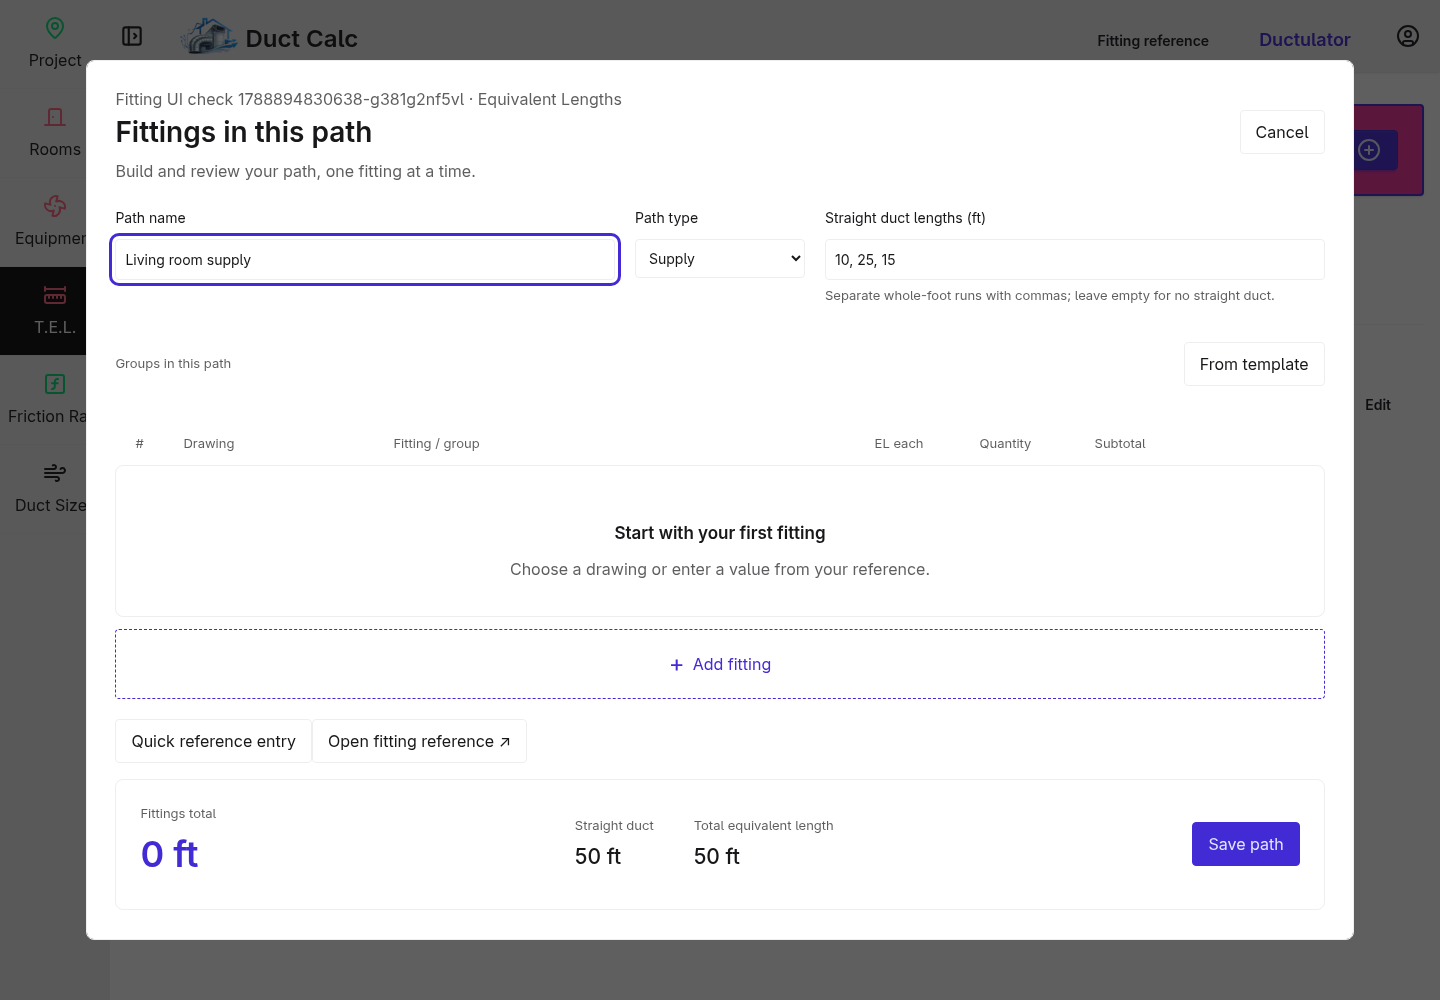
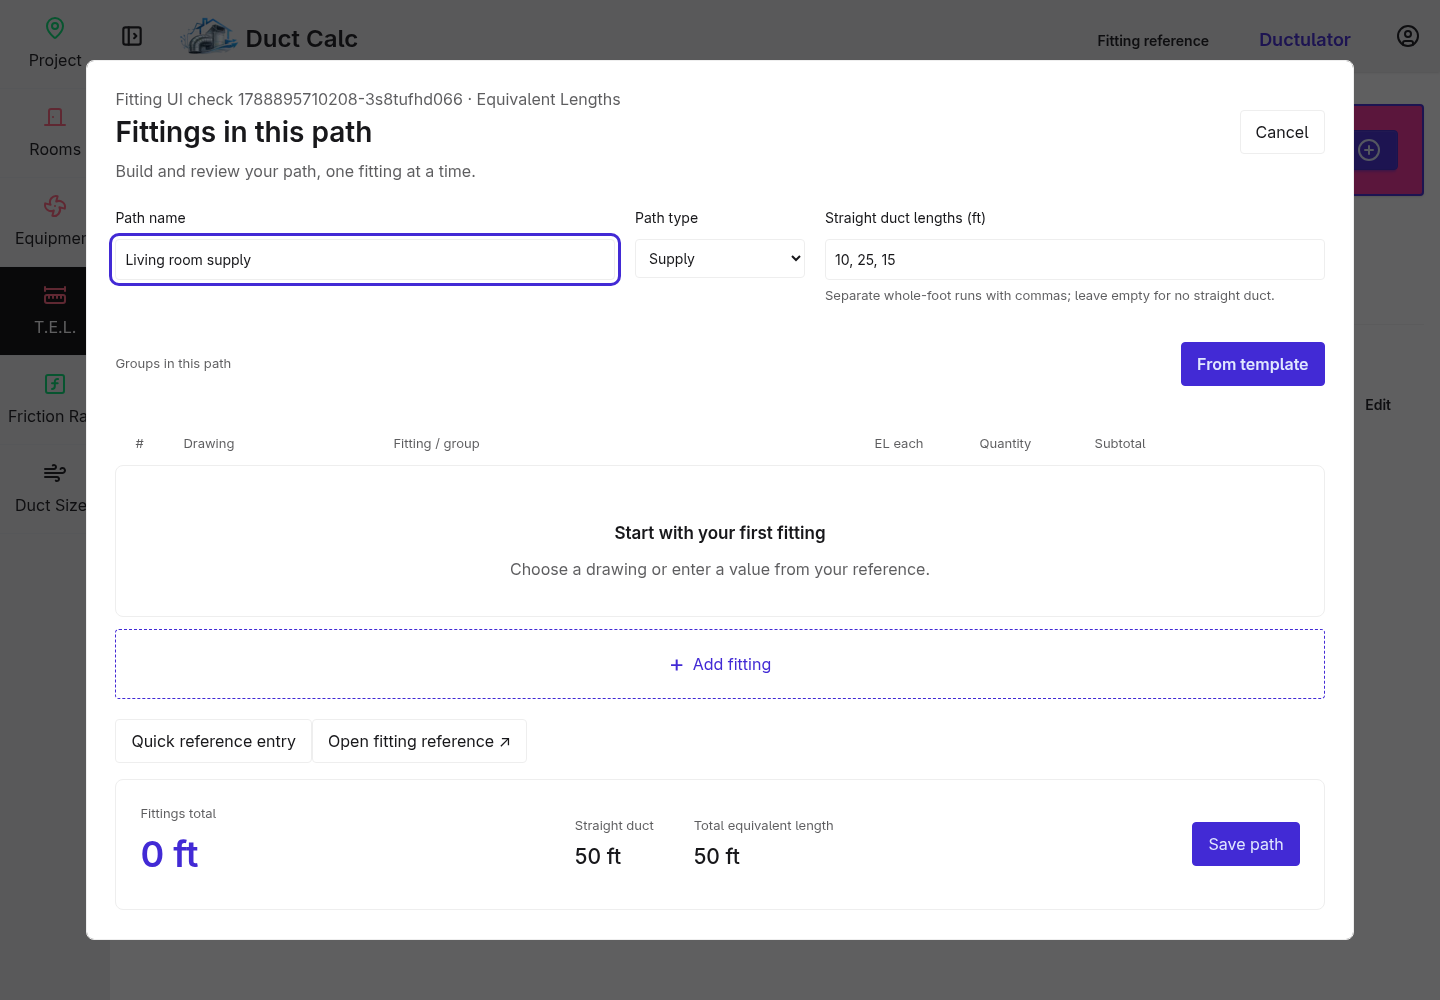
feat: run template workflows inside the path modal

Changed region(s): [[0.8125, 0.341, 0.9375, 0.403], [0.1875, 0.093, 0.4375, 0.124]]

diff --git a/Public/js/template-modal.js b/Public/js/template-modal.js
@@ -1,0 +1,95 @@
+/* Hosts the existing template views inside the project path dialog. */
+(() => {
+  window.FittingTemplateModal = {
+    create(dialog, { endpoint, hasDraft, finish }) {
+      const original = [...dialog.children];
+      const host = document.createElement('section');
+      host.hidden = true;
+      host.innerHTML = `<div class="template-modal-toolbar"><button type="button" class="btn" data-template-back>Back to path</button><button type="button" class="btn" data-template-cancel>Cancel</button></div><p class="px-4" role="status" data-template-status></p><div class="template-modal-content"></div>`;
+      dialog.append(host);
+      const content = host.querySelector('.template-modal-content');
+      const status = host.querySelector('[data-template-status]');
+      let active = false, pending;
+      function canLeave(force = false) {
+        const workspace = content.querySelector('#path-template-workspace');
+        return workspace
+          ? workspace.dispatchEvent(new CustomEvent('path-template:leave', { cancelable: true, detail: { force } }))
+          : !force || confirm('Discard unsaved changes to this path?');
+      }
+      function clear() {
+        pending?.abort(); pending = null;
+        content.replaceChildren(); host.hidden = true; active = false;
+        original.forEach(node => { node.hidden = false; });
+        dialog.classList.replace('template-path-active', 'fitting-path');
+        dialog.setAttribute('aria-labelledby', 'path-title');
+        dialog.removeAttribute('aria-label');
+        dialog.scrollTop = 0;
+      }
+      function back() {
+        if (!canLeave()) return;
+        clear(); dialog.querySelector('#path-from-template').focus();
+      }
+      function close() {
+        if (!canLeave(hasDraft())) return;
+        clear(); finish(endpoint);
+      }
+      async function load(url, options = {}) {
+        pending?.abort();
+        const controller = new AbortController(); pending = controller;
+        status.textContent = 'Loading templates…';
+        try {
+          const response = await fetch(url, { ...options, signal: controller.signal, credentials: 'same-origin' });
+          if (!response.ok || response.redirected) throw Error('Unable to load templates. Check your connection or sign in again.');
+          const page = new DOMParser().parseFromString(await response.text(), 'text/html');
+          const failure = page.querySelector('[data-workspace-error]');
+          if (failure) throw Error(failure.textContent);
+          const view = page.querySelector('#path-template-list, #path-template-page');
+          if (!view) throw Error('Unable to load templates. Your path is still available with Back to path.');
+          if (controller !== pending) return;
+          // The dialog supplies its own return/cancel controls; app navigation stays outside it.
+          if (view.id === 'path-template-page') view.firstElementChild?.remove();
+          else view.querySelector(`a[href="${endpoint}"]`)?.remove();
+          content.replaceChildren(document.importNode(view, true));
+          original.forEach(node => { node.hidden = true; });
+          host.hidden = false; active = true;
+          dialog.classList.replace('fitting-path', 'template-path-active');
+          status.textContent = '';
+          dialog.querySelector('#path-status').textContent = '';
+          document.dispatchEvent(new Event('path-template:mount'));
+          dialog.removeAttribute('aria-labelledby');
+          dialog.setAttribute('aria-label', 'Build a path from a template');
+          const heading = content.querySelector('h1, h2');
+          if (heading) { heading.tabIndex = -1; heading.focus(); }
+          dialog.scrollTop = 0;
+        } catch (error) {
+          if (error.name === 'AbortError') return;
+          if (active) status.textContent = error.message;
+          else dialog.querySelector('#path-status').textContent = error.message;
+        } finally { if (pending === controller) pending = null; }
+      }
+      host.addEventListener('click', event => {
+        if (event.target.closest('[data-template-back]')) { back(); return; }
+        if (event.target.closest('[data-template-cancel]')) { close(); return; }
+        const link = event.target.closest('a[href]');
+        if (!link || link.target === '_blank') return;
+        const url = new URL(link.href);
+        if (url.origin !== location.origin) return;
+        event.preventDefault();
+        if (url.pathname === endpoint) { back(); return; }
+        if (canLeave()) load(url.href);
+      });
+      host.addEventListener('submit', event => {
+        if (!event.target.matches('form[action]')) return;
+        event.preventDefault();
+        if (canLeave()) load(event.target.action, { method: event.target.method.toUpperCase(), body: new URLSearchParams(new FormData(event.target)) });
+      });
+      host.addEventListener('path-template:navigate', event => {
+        event.preventDefault(); load(event.detail.url);
+      });
+      host.addEventListener('path-template:saved', event => {
+        event.preventDefault(); clear(); finish(event.detail.url);
+      });
+      return { get active() { return active; }, open: load, close };
+    }
+  };
+})();

diff --git a/Public/js/fitting-path.js b/Public/js/fitting-path.js
@@ -10,6 +10,10 @@
     let editing = null, dirty = false, busy = false, browserRequest = 0, rowsRequest = 0, editRequest = 0;
     const requests = new WeakMap(), timers = new WeakMap(), favoriteRequests = new Set();
     let favoriteTemplates = new Map();
+    const templateModal = window.FittingTemplateModal.create(root, {
+      endpoint, hasDraft: () => dirty,
+      finish: url => { dirty = false; root.close(); location.assign(url); }
+    });
     const preferenceKey = 'fitting-picker.shape-preference.v1';
     let shapePreference = 'none';
     try {
@@ -214,6 +218,7 @@
       $('#reference-result').replaceChildren(); $('#reference-dialog').showModal();
     }
     function closeEditor() {
+      if (templateModal.active) { templateModal.close(); return; }
       if (busy || (dirty && !window.confirm('Discard unsaved changes to this path?'))) return;
       dirty = false; root.close(); location.assign(endpoint);
     }
@@ -222,11 +227,10 @@
       if (busy) return;
       try {
         const draft = { name: $('#path-name').value, straightLengths: parseStraight() };
-        if (entries.length && !window.confirm('Starting a template replaces the fittings in this draft. Continue?')) return;
         const url = new URL(event.currentTarget.href);
         url.search = `?draft=${encodeURIComponent(JSON.stringify(draft))}`;
-        dirty = false;
-        location.assign(url.href);
+        status('Loading templates…');
+        templateModal.open(url.href);
       } catch (error) { status(error.message); $('#path-straight').focus(); }
     });
     root.addEventListener('cancel', event => {
@@ -234,6 +238,7 @@
       event.preventDefault(); closeEditor();
     });
     root.addEventListener('click', async event => {
+      if (templateModal.active) return;
       const button = event.target.closest('button'); if (!button || button.disabled) return;
       if (button.id === 'close-path') { closeEditor(); return; }
       if (button.dataset.closeDialog) { editRequest++; $(`#${button.dataset.closeDialog}`).close(); return; }
@@ -297,6 +302,7 @@
       }
     });
     root.addEventListener('change', event => {
+      if (templateModal.active) return;
       if (event.target.name === 'shape-preference') {
         shapePreference = event.target.value;
         try { localStorage.setItem(preferenceKey, shapePreference); } catch { /* Session-only fallback. */ }

diff --git a/Public/js/path-templates.js b/Public/js/path-templates.js
@@ -45,6 +45,12 @@
     if (!root || root.dataset.initialized) return;
     root.dataset.initialized = 'true';
     const data = JSON.parse(document.getElementById('path-template-data').textContent);
+    function navigate(url, saved = false) {
+      const event = new CustomEvent(saved ? 'path-template:saved' : 'path-template:navigate', {
+        bubbles: true, cancelable: true, detail: { url }
+      });
+      if (root.dispatchEvent(event)) location.assign(url);
+    }
     const definitions = new Map(data.definitions.map((d) => [d.id, d]));
     let configuration = clone(data.configuration),
       selected = 0,
@@ -525,7 +531,7 @@
         const redirect = result.querySelector('[data-redirect]')?.dataset.redirect;
         if (!redirect) throw new Error('Template save did not complete.');
         dirty = false;
-        location.assign(templateURL(redirect));
+        navigate(templateURL(redirect));
         return;
       }
       if (action === 'delete-template') {
@@ -533,7 +539,7 @@
           return;
         await request(`/path-templates/${data.template.id}`, undefined, 'DELETE');
         dirty = false;
-        location.assign(data.backURL);
+        navigate(data.backURL);
         return;
       }
       if (action === 'try') {
@@ -693,7 +699,7 @@
         const redirect = result.querySelector('[data-redirect]')?.dataset.redirect;
         if (!redirect) throw new Error('Path save did not complete.');
         dirty = false;
-        location.assign(redirect);
+        navigate(redirect, true);
       }
     }
     function renderBrowse() {
@@ -875,6 +881,9 @@
         event.returnValue = '';
       }
     });
+    root.addEventListener('path-template:leave', event => {
+      if (busy || pendingQuantities || ((dirty || event.detail?.force) && !confirm('Discard unsaved changes to this template path?'))) event.preventDefault();
+    });
     if (mode === 'path') startPath();
     else render();
   }
@@ -882,4 +891,5 @@
     document.addEventListener('DOMContentLoaded', initialize, { once: true });
   else initialize();
   document.addEventListener('htmx:afterSwap', initialize);
+  document.addEventListener('path-template:mount', initialize);
 })();

diff --git a/Public/css/fitting-path-modal.css b/Public/css/fitting-path-modal.css
@@ -1,5 +1,5 @@
 /* Large editor over the project's Equivalent Lengths page. */
-.fitting-path.editor-dialog {
+.editor-dialog:is(.fitting-path, .template-path-active) {
   width: 88vw;
   height: 88dvh;
   min-height: 0;
@@ -11,14 +11,30 @@
   border: 1px solid var(--line);
   border-radius: var(--radius-box, 14px);
 }
-.fitting-path.editor-dialog::backdrop { background: var(--backdrop, #12233399); }
+.editor-dialog:is(.fitting-path, .template-path-active)::backdrop { background: var(--backdrop, #12233399); }
 @scope (.fitting-path) {
   .path-sheet { max-width: none; margin: 0; padding: 20px 28px; }
   .path-sheet > header { padding-top: 0; }
 }
 @media (max-width: 700px) {
-  .fitting-path.editor-dialog { width: 96vw; height: 94dvh; }
+  .editor-dialog:is(.fitting-path, .template-path-active) { width: 96vw; height: 94dvh; }
   @scope (.fitting-path) {
     .path-sheet { padding: 16px 12px; }
   }
 }
+
+.template-path-active {
+  color: var(--color-base-content);
+  background: var(--color-base-100);
+  --line: var(--color-base-300);
+  --backdrop: color-mix(in oklab, var(--color-neutral) 65%, transparent);
+}
+.template-modal-toolbar { display: flex; justify-content: space-between; gap: 12px; padding: 16px; }
+.template-modal-content { min-width: 0; }
+.fitting-path #path-from-template.template-action {
+  background: var(--color-primary);
+  color: var(--color-primary-content);
+  border-color: var(--color-primary);
+  font-weight: 600;
+}
+.fitting-path #path-from-template.template-action:hover { filter: brightness(.92); }

diff --git a/Sources/ViewController/Views/FittingPicker/ProjectFittingPathView.swift b/Sources/ViewController/Views/FittingPicker/ProjectFittingPathView.swift
@@ -17,6 +17,8 @@ struct ProjectFittingPathView: HTML, Sendable {
     link(.rel(.stylesheet), .href("/css/fitting-favorites.css"))
     link(.rel(.stylesheet), .href("/css/fitting-path-modal.css"))
     script(.src("/js/group-carousel.js"), .defer) {}
+    script(.src("/js/path-templates.js"), .defer) {}
+    script(.src("/js/template-modal.js"), .defer) {}
     script(.src("/js/fitting-path.js"), .defer) {}
     EditorDialog(id: "fitting-path", titleID: "path-title") {
       section(.class("path-sheet")) {
@@ -57,8 +59,10 @@ struct ProjectFittingPathView: HTML, Sendable {
           div(.class("flex w-full flex-wrap items-center justify-between gap-2")) {
             small { "Groups in this path" }
             if baseline == nil {
-              a(.id("path-from-template"), .class("link-button"), .href(guidedPathURL(project.id)))
-              {
+              a(
+                .id("path-from-template"), .class("link-button template-action"),
+                .href(guidedPathURL(project.id))
+              ) {
                 "From template"
               }
             }

diff --git a/Sources/ViewController/Views/EffectiveLength/PathTemplateViews.swift b/Sources/ViewController/Views/EffectiveLength/PathTemplateViews.swift
@@ -11,7 +11,7 @@ struct PathTemplatesView: HTML, Sendable {
 
   var body: some HTML {
     Navbar(showSidebarToggle: false, isLoggedIn: true)
-    div(.class("w-full p-4 space-y-6")) {
+    div(.id("path-template-list"), .class("w-full p-4 space-y-6")) {
       if let projectID {
         a(.class("btn btn-ghost"), .href(effectiveLengthsURL(projectID))) { "← Back to project" }
       }
@@ -120,7 +120,7 @@ struct PathTemplateWorkspace: HTML, Sendable {
 
   var body: some HTML {
     Navbar(showSidebarToggle: false, isLoggedIn: true)
-    div(.class("w-full p-4 space-y-4")) {
+    div(.id("path-template-page"), .class("w-full p-4 space-y-4")) {
       div(.class("flex flex-wrap items-center gap-2")) {
         if data.mode != "path", let projectID = data.projectID {
           a(.class("btn btn-ghost"), .href(effectiveLengthsURL(projectID))) { "← Back to project" }

diff --git a/docs/path-template-implementation-plan.md b/docs/path-template-implementation-plan.md
@@ -41,7 +41,9 @@ broader input mapping remains follow-up work.
 The + add button opens the picker modal. From template appears inside that
 modal beside Groups in this path for new paths. It carries the path name and
 straight duct lengths through saved-template or starter-template selection into
-the guided flow. The details also survive reloading the new guided page. Edit selects the matching editor for a saved path,
+the guided flow. Template selection and the guided steps replace the contents of
+the same dialog. Back to path restores the original fields and fitting rows.
+Edit selects the matching editor for a saved path,
 and the ordinary picker rejects writes to template paths to preserve their section
 metadata. The public fitting reference remains available at `/fittings`.
 
@@ -318,7 +320,14 @@ Run it with Playwright available and `FITTING_APP_URL` set to the disposable app
 ![Guided path](images/fitting-picker/templates-guided.png)
 
 The handoff browser check covers invalid straight lengths, names containing spaces
-and punctuation, both template selection routes, page reload, and save/reopen.
+and punctuation, both template selection routes, and save/reopen. The modal check
+asserts that the URL stays unchanged and no beforeunload warning appears during
+selection or saving. It also covers failed-load retry, original draft restoration,
+keyboard focus, nested Escape, and confirmed or declined cancellation.
 Draft details apply only to a new guided path; saved paths retain their own values.
 
 ![Template handoff in the path modal](images/fitting-picker/template-handoff.png)
+
+![Template selection inside the path modal](images/fitting-picker/template-modal-chooser.png)
+
+![Guided steps inside the path modal](images/fitting-picker/template-modal-guided.png)

diff --git a/docs/fitting-picker-preview.md b/docs/fitting-picker-preview.md
@@ -1,7 +1,7 @@
 # Fitting picker integrated into the application
 
 The agreed `path-catalog.html` prototype is now implemented in the Swift application.
-Open a project, choose **Equivalent Lengths**, then **+** or **Edit**. The + opens the path modal. **From template**, beside **Groups in this path**, carries the entered path name and straight duct lengths into a new guided path.
+Open a project, choose **Equivalent Lengths**, then **+** or **Edit**. The + opens the path modal. **From template**, beside **Groups in this path**, uses the primary button color and carries the entered path name and straight duct lengths into a guided flow inside the same dialog. **Back to path** restores the original form and fitting rows.
 The path editor opens in a modal over the project's Equivalent Lengths list: **88% of
 viewport width and height on desktop**, expanding to 96% width and 94% height on mobile.
 **Save path** returns to the updated list. Use its **Edit** link to reopen recorded entries.
